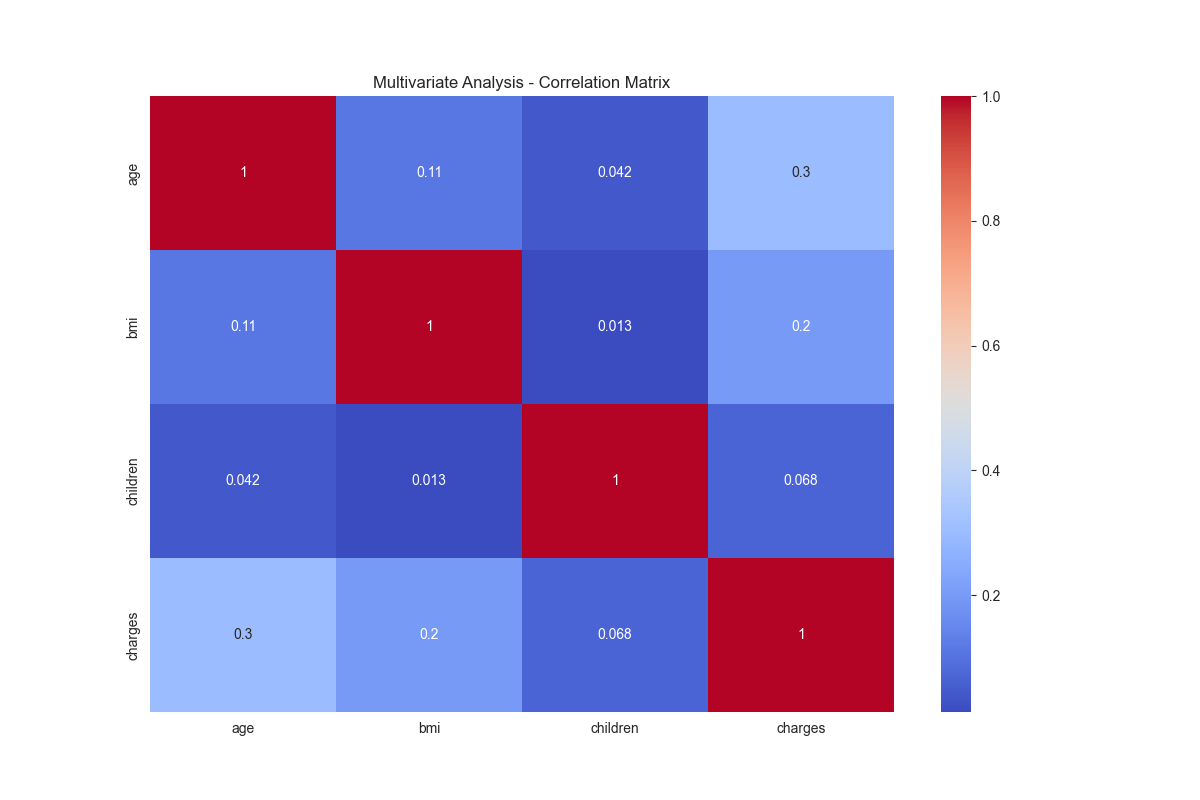
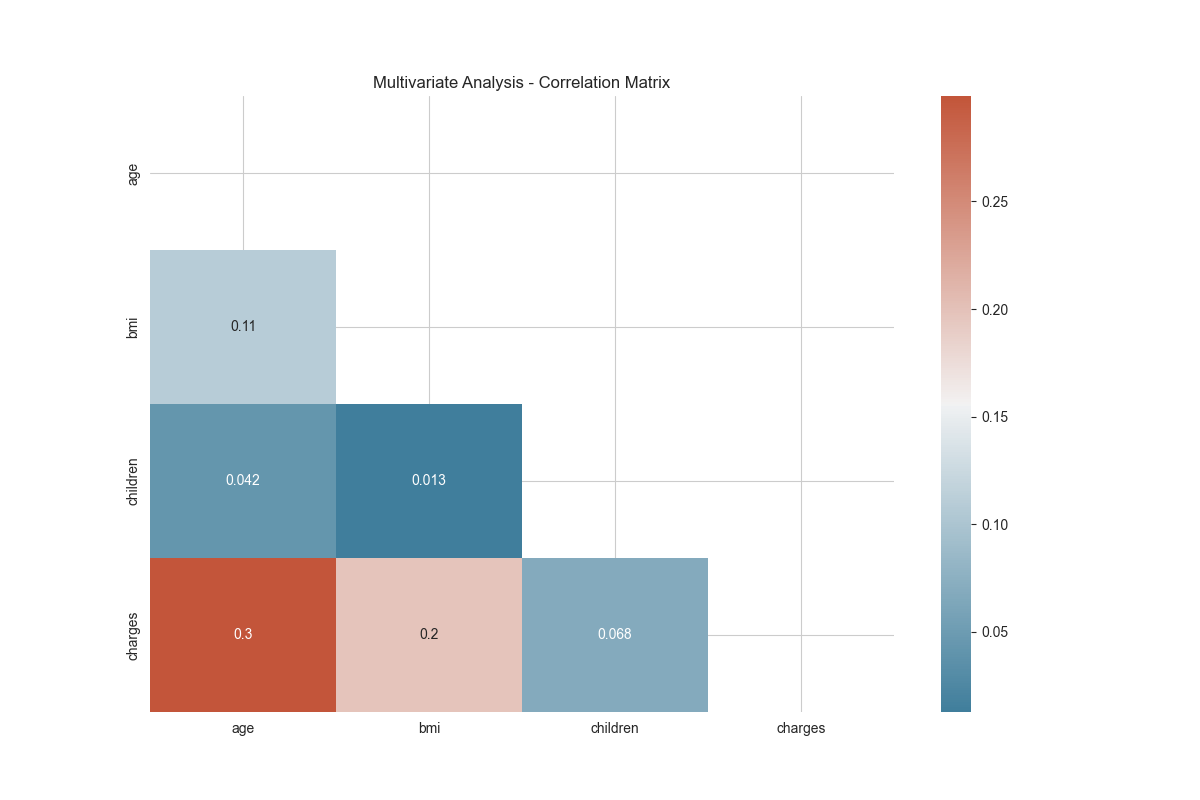
#7 updated the color map and mask for correlation heatmap to make it easier to understand

diff --git a/src/multivariate_analysis.py b/src/multivariate_analysis.py
@@ -1,5 +1,6 @@
 import os
 import pandas as pd
+import numpy as np
 import seaborn as sns
 import matplotlib.pyplot as plt
 sns.set_style('whitegrid')
@@ -23,7 +24,9 @@ def multivariate_analysis(df: pd.DataFrame, output_directory: str) -> None:
         raise ValueError("No numeric data available for correlation analysis.")
     
     plt.figure(figsize=(12,8))
-    sns.heatmap(df.corr(), annot=True, cmap='coolwarm')
+    mask = np.triu(np.ones_like(df.corr(), dtype=bool))
+    cmap = sns.diverging_palette(230, 20, as_cmap=True)
+    sns.heatmap(df.corr(), annot=True, mask=mask, cmap=cmap)
     plt.title('Multivariate Analysis - Correlation Matrix')
     plt.savefig(f"{output_directory}/charts/correlation_matrix.png")
     plt.close()
